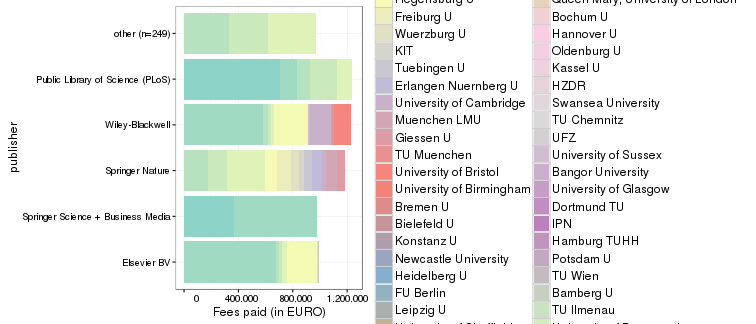
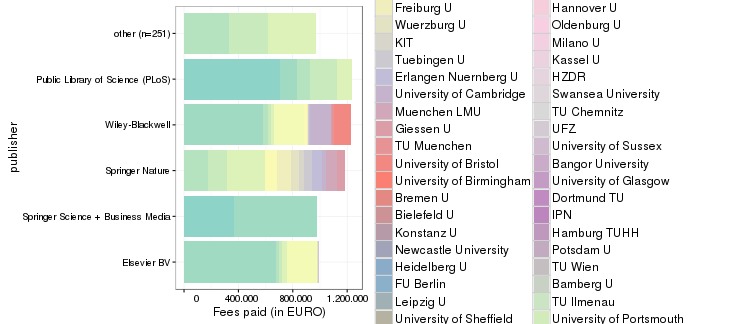
post: Uni Milano joins OpenAPC

diff --git a/about.md b/about.md
@@ -72,6 +72,10 @@ The data content covers APCs as paid for by our central budget for the Max Planc
 - [FWF - Austrian Science Fund](https://www.fwf.ac.at/en/research-funding/open-access-policy/)
 - [Technische Universität Wien](http://www.ub.tuwien.ac.at/eng/openaccess)
 
+## Participating Italian Institutions
+
+- [Università degli Studi di Milano](http://www.unimi.it/ENG/)
+
 ## Participating Institutions from the United Kingdom:
 
 - [Wellcome Trust](https://wellcome.ac.uk/funding/managing-grant/open-access-policy)
@@ -119,13 +123,13 @@ Jisc Collections released data on APC payments made by UK higher education insti
 
 Information on both open access journal articles and open access publication of articles in toll-access journals ("hybrid") are provided.
 
-In total,  42 796 339 € for  24 089 articles were paid by the participating unviversities. Average  fee is 1 776.6 € and the median 1 588 €.
+In total,  42 886 409 € for  24 146 articles were paid by the participating unviversities. Average  fee is 1 776.1 € and the median 1 588 €.
 
 ### Open Access Journals
 
 
 
-At the moment, the dataset releases information on 14 731 articles in open access journals which charge publication fees. Total expenditure amounts to  20 145 874 €. Average  fee is 1 367.6 € and the median 1 276 €.
+At the moment, the dataset releases information on 14 779 articles in open access journals which charge publication fees. Total expenditure amounts to  20 220 208 €. Average  fee is 1 368.2 € and the median 1 276 €.
 
 View dataset on [GitHub](https://github.com/OpenAPC/openapc-de/blob/master/data/apc_de.csv).
 
@@ -166,6 +170,7 @@ View dataset on [GitHub](https://github.com/OpenAPC/openapc-de/blob/master/data/
 |Loughborough University                     |        1|               980|           980|    980|
 |LSHTM                                       |       44|            65,723|         1,494|  1,517|
 |MDC                                         |       51|           103,028|         2,020|  1,483|
+|Milano U                                    |       48|            74,335|         1,549|  1,357|
 |MPG                                         |    3,076|         3,999,318|         1,300|  1,180|
 |Muenchen LMU                                |      365|           463,491|         1,270|  1,299|
 |Newcastle University                        |       51|            91,101|         1,786|  1,385|
@@ -207,7 +212,7 @@ View dataset on [GitHub](https://github.com/OpenAPC/openapc-de/blob/master/data/
 
 
 In many toll-access journals some of the articles are open access after a fee has been paid. This model is often called "hybrid open access".
-The dataset covers 9 358 hybrid open access articles. Total expenditure amounts to  22 650 465 €. Average  fee is 2 420.4 € and the median 2 400 €.
+The dataset covers 9 367 hybrid open access articles. Total expenditure amounts to  22 666 200 €. Average  fee is 2 419.8 € and the median 2 400 €.
 
 The following institutions have contributed its expenditures for hybrid open access.
 
@@ -232,6 +237,7 @@ The following institutions have contributed its expenditures for hybrid open acc
 |Loughborough University                     |       76|           170,264|         2,240|  2,172|
 |LSHTM                                       |       80|           197,070|         2,463|  2,261|
 |MDC                                         |       18|            42,227|         2,346|  1,996|
+|Milano U                                    |        9|            15,735|         1,748|  1,969|
 |MPG                                         |       13|            17,508|         1,347|  1,325|
 |Newcastle University                        |      168|           430,248|         2,561|  2,603|
 |Plymouth University                         |        7|            16,865|         2,409|  2,266|
@@ -329,7 +335,7 @@ For data enrichment, sample visualisations and explorations we build on the work
 
 ## Contributors
 
-Benjamin Ahlborn, Chelsea Ambler, Magdalena Andrae, Jochen Apel, Hans-Georg Becker, Roland Bertelmann, Daniel Beucke, Peter Blume, Ute Blumtritt, Kim Braun, Christoph Broschinski, Dorothea Busjahn, Pablo de Castro, Amanda Cullin, Gernot Deinzer, Julia Dickel, Andrea Dorner, Clemens Engelhardt, Inken Feldsien-Sudhaus, Fabian Franke, Claudia Frick, Agnes Geißelmann, Kai Karin Geschuhn, Uli Hahn, Kristina Hanig, Dominik Hell, Ulrich Herb, Ute Holzwarth, Christie Hurrell, Doris Jaeger, Najko Jahn, Alexandra Jobmann, Andreas Kennecke, Robert Kiley, Stephanie Kroiss, Gerrit Kuehle, Stuart Lawson, Kathrin Lucht-Roussel, Frank Lützenkirchen, Anja Oberländer, Vitali Peil, Dirk Pieper, Tobias Pohlmann, Markus Putnings, Annette Scheiner, Michael Schlachter, Birgit Schlegel, Adriana Sikora, Edith Reschke, Katharina Rieck, Florian Ruckelshausen, Ilka Rudolf, Marco Tullney, Astrid Vieler, Marco Winkler, Sabine Witt
+Benjamin Ahlborn, Chelsea Ambler, Magdalena Andrae, Jochen Apel, Hans-Georg Becker, Roland Bertelmann, Daniel Beucke, Peter Blume, Ute Blumtritt, Kim Braun, Christoph Broschinski, Dorothea Busjahn, Pablo de Castro, Amanda Cullin, Gernot Deinzer, Julia Dickel, Andrea Dorner, Clemens Engelhardt, Inken Feldsien-Sudhaus, Fabian Franke, Claudia Frick, Agnes Geißelmann, Kai Karin Geschuhn, Uli Hahn, Kristina Hanig, Dominik Hell, Ulrich Herb, Ute Holzwarth, Christie Hurrell, Doris Jaeger, Najko Jahn, Alexandra Jobmann, Andreas Kennecke, Robert Kiley, Stephanie Kroiss, Gerrit Kuehle, Stuart Lawson, Kathrin Lucht-Roussel, Frank Lützenkirchen, Anna Marini, Anja Oberländer, Vitali Peil, Dirk Pieper, Tobias Pohlmann, Markus Putnings, Annette Scheiner, Michael Schlachter, Birgit Schlegel, Adriana Sikora, Edith Reschke, Katharina Rieck, Florian Ruckelshausen, Ilka Rudolf, Marco Tullney, Astrid Vieler, Marco Winkler, Sabine Witt
 
 ## Contact
 

diff --git a/_posts/2017-02-07-milano.md b/_posts/2017-02-07-milano.md
@@ -1,0 +1,63 @@
+---
+layout:     post
+author:     Christoph Broschinski
+title:      University of Milan joins OpenAPC
+date:       2017-02-07 08:00:00
+summary:    
+categories: [general, openAPC]
+comments: true
+---
+
+
+
+
+We welcome the [Università degli Studi di Milano](http://www.unimi.it/ENG/) (University of Milan) as our first contributing institution from Italy!
+
+Contact person is [Anna Marini](mailto:anna.marini@unimi.it).
+
+## About the dataset
+
+The initial dataset contributed by the University of Milan contains information on publication fees paid in 2016. 
+
+## Cost Data
+
+
+
+The data covers publication fees for 57 articles. Total expenditure amounts to 90 069€ and the average fee is 1 580€.
+
+The following table and plots show the payments the university has made to publishers in 2016.
+
+
+|                                          | Articles| Fees paid in EURO| Mean Fee paid|
+|:-----------------------------------------|--------:|-----------------:|-------------:|
+|Springer Nature                           |       21|             32432|          1544|
+|Elsevier BV                               |        7|             15429|          2204|
+|MDPI AG                                   |        4|              4698|          1175|
+|Oxford University Press (OUP)             |        4|             10033|          2508|
+|Frontiers Media SA                        |        3|              4591|          1530|
+|Public Library of Science (PLoS)          |        3|              2909|           970|
+|Hindawi Publishing Corporation            |        2|              3218|          1609|
+|Impact Journals, LLC                      |        2|              5338|          2669|
+|American Physiological Society            |        1|               470|           470|
+|MedCrave Group, LLC                       |        1|               230|           230|
+|OMICS Publishing Group                    |        1|              1916|          1916|
+|Ovid Technologies (Wolters Kluwer Health) |        1|              1246|          1246|
+|S. Karger AG                              |        1|              1732|          1732|
+|SAGE                                      |        1|              1549|          1549|
+|SAGE Publications                         |        1|              2165|          2165|
+|Sciedu Press                              |        1|               215|           215|
+|The Endocrine Society                     |        1|              1288|          1288|
+|Timeline Publication Pvt. Ltd             |        1|               110|           110|
+|Walter de Gruyter GmbH                    |        1|               500|           500|
+
+### Fees paid per publisher (in EURO)
+
+![plot of chunk tree_milano_2017_02_07_full](/figure/tree_milano_2017_02_07_full-1.png)
+
+###  Average costs per year (in EURO)
+
+![plot of chunk box_milano_2017_02_07_year_full](/figure/box_milano_2017_02_07_year_full-1.png)
+
+###  Average costs per publisher (in EURO)
+
+![plot of chunk box_milano_2017_02_07_publisher_full](/figure/box_milano_2017_02_07_publisher_full-1.png)
